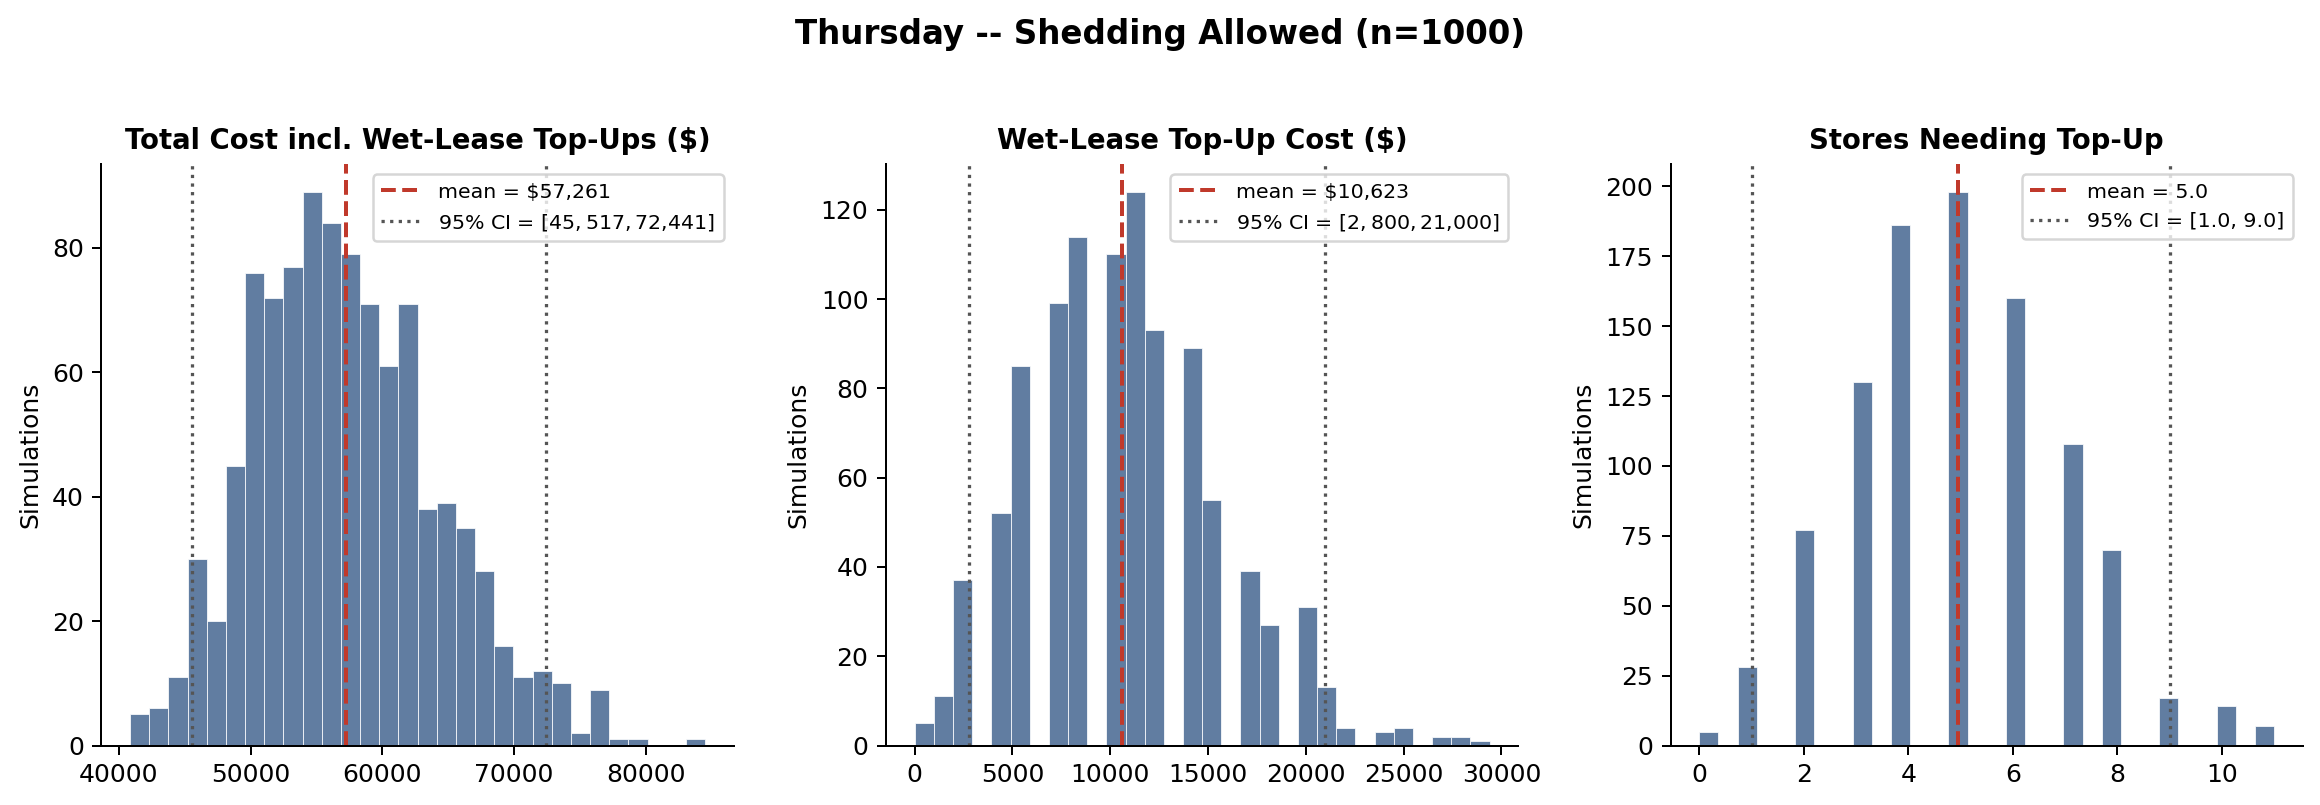
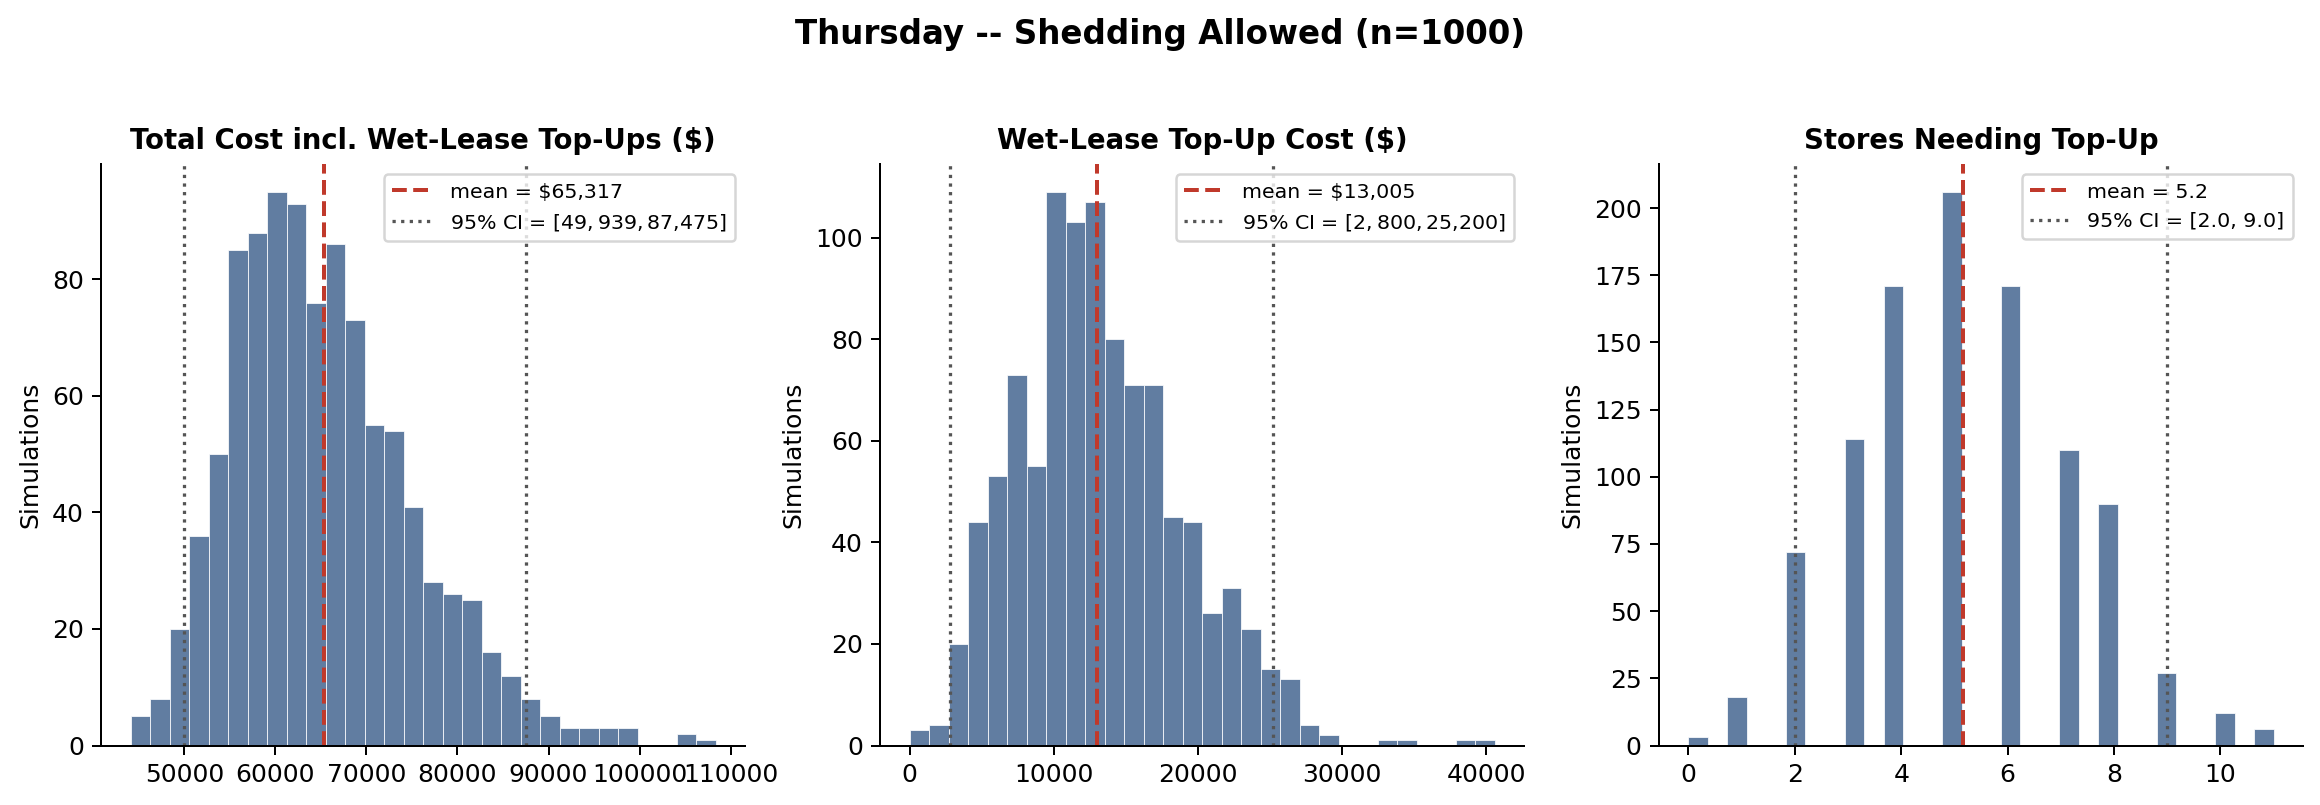
New beta for sim

diff --git a/Simulation/montecarlo_simulator.py b/Simulation/montecarlo_simulator.py
@@ -92,10 +92,14 @@ OUTPUT_DIR = "."
 
 N_SIMULATIONS = 1000
 
-BETA_ALPHA = 3.25                # weekday default (AM/PM averaged)
-BETA_BETA = 6.75                 # weekday default (AM/PM averaged)
-HIGH_MULTIPLIER = 3.165          # weekday default (AM/PM averaged). For Saturday, override
-                                  # with --beta-alpha 5.5 --beta-beta 5.75 --high-multiplier 2.1
+BETA_ALPHA = 2.0                 # weekday default (AM/PM averaged from latest parameter set)
+BETA_BETA = 8.4175                # weekday default (AM/PM averaged)
+LOW_MULTIPLIER = 1.5285           # weekday default (AM/PM averaged). Note: this floor is
+                                   # ABOVE 1.0 -- under these parameters, weekday traffic is
+                                   # NEVER faster than baseline, even in the best case.
+HIGH_MULTIPLIER = 7.1910          # weekday default (AM/PM averaged). For Saturday, override
+                                   # with --beta-beta 6.9845 --low-multiplier 0.8030
+                                   # --high-multiplier 7.6820
 
 FIX_SKIPPED_STORES_WITH_WETLEASE = False  # see module docstring, assumption (2)
 
@@ -222,9 +226,13 @@ def sample_demand(store, distributions, rng):
     return max(rng.gauss(mean, stdev), 0.0)
 
 
-def traffic_multiplier_from_sample(raw_sample, high):
-    """No-traffic baseline: multiplier is always >= 1.0. See module docstring."""
-    return 1.0 + high * raw_sample
+def traffic_multiplier_from_sample(raw_sample, low, high):
+    """Linear stretch of the raw Beta(0,1) draw onto [low, high] directly.
+    Per the latest parameter set, low is NOT always 0 -- for weekday it's
+    above 1.0, meaning traffic is never faster than baseline even in the
+    best case; for Saturday it's below 1.0, allowing faster-than-baseline
+    days. See module docstring / chat history for the source values."""
+    return low + (high - low) * raw_sample
 
 
 def wet_lease_topup_cost(store, shortfall_pallets, durations, traffic_multiplier):
@@ -236,7 +244,7 @@ def wet_lease_topup_cost(store, shortfall_pallets, durations, traffic_multiplier
 
 
 def run_simulation(routes, skipped, distributions, durations, rng,
-                    beta_alpha, beta_beta, high_multiplier,
+                    beta_alpha, beta_beta, low_multiplier, high_multiplier,
                     fix_skipped=FIX_SKIPPED_STORES_WITH_WETLEASE):
     """
     One simulated day. Planned routes' pallet loads are fixed at baseline;
@@ -246,7 +254,7 @@ def run_simulation(routes, skipped, distributions, durations, rng,
     skipped stores are not topped up (unless fix_skipped=True).
     """
     raw_sample = rng.betavariate(beta_alpha, beta_beta)
-    traffic_multiplier = traffic_multiplier_from_sample(raw_sample, high_multiplier)
+    traffic_multiplier = traffic_multiplier_from_sample(raw_sample, low_multiplier, high_multiplier)
 
     total_cost = 0.0
     total_requested = 0.0
@@ -375,6 +383,7 @@ def main():
     parser.add_argument("--n-sim", type=int, default=N_SIMULATIONS)
     parser.add_argument("--beta-alpha", type=float, default=BETA_ALPHA)
     parser.add_argument("--beta-beta", type=float, default=BETA_BETA)
+    parser.add_argument("--low-multiplier", type=float, default=LOW_MULTIPLIER)
     parser.add_argument("--high-multiplier", type=float, default=HIGH_MULTIPLIER)
     parser.add_argument("--fix-skipped", action="store_true", default=FIX_SKIPPED_STORES_WITH_WETLEASE,
                          help="also wet-lease-cover permanently-skipped stores (defeats shedding savings)")
@@ -396,14 +405,14 @@ def main():
     print(f"Loaded plan: {len(routes)} routes, {len(skipped)} permanently-skipped stores")
     print(f"Fitted demand distributions for {len(distributions)} stores from {args.day}s")
     print(f"Running {args.n_sim} simulations "
-          f"(traffic ~ 1 + {args.high_multiplier}*Beta({args.beta_alpha},{args.beta_beta}), "
-          f"no-traffic floor 1.0x; wet-lease top-up "
+          f"(traffic ~ [{args.low_multiplier}, {args.high_multiplier}] via "
+          f"Beta({args.beta_alpha},{args.beta_beta}); wet-lease top-up "
           f"{'ALSO covers' if args.fix_skipped else 'does NOT cover'} skipped stores)...")
 
     results_list = []
     for _ in range(args.n_sim):
         r = run_simulation(routes, skipped, distributions, durations, rng,
-                            args.beta_alpha, args.beta_beta, args.high_multiplier,
+                            args.beta_alpha, args.beta_beta, args.low_multiplier, args.high_multiplier,
                             fix_skipped=args.fix_skipped)
         results_list.append(r)
 
